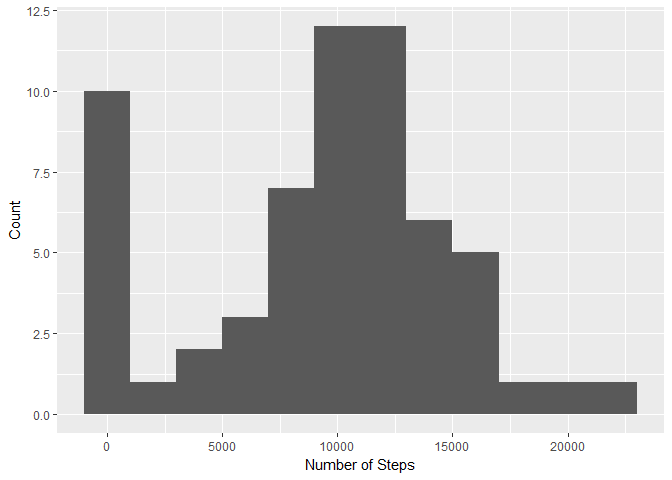
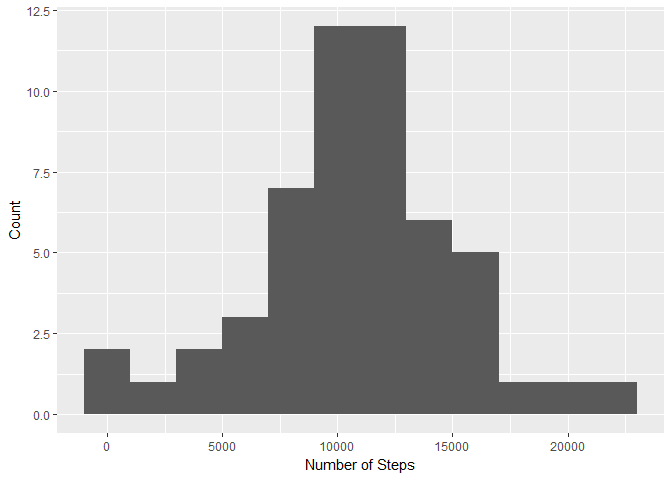
Fix bug with in summation with NA values

Changed region(s): [[0.125, 0.1875, 0.2188, 0.75]]

diff --git a/Reproducible Research/Assignment 1/PA1_template.html b/Reproducible Research/Assignment 1/PA1_template.html
@@ -150,7 +150,7 @@ summary(df)</code></pre>
 <p>As we can see, there is a large number of NA values that we will take care of in a later step. Next, we will introduce two helper functions we will use throughout this document.</p>
 <pre class="r"><code>sum_steps &lt;- function(input_df)
 {
-  output_df &lt;- input_df[, c(1, 2)] %&gt;% group_by(date) %&gt;% summarise_all(funs(sum), na.rm = TRUE)
+  output_df &lt;- input_df[, c(1, 2)] %&gt;% group_by(date) %&gt;% summarise_all(funs(sum))
   colnames(output_df) = c(&quot;date&quot;, &quot;number_of_steps&quot;)
   output_df
 }
@@ -166,16 +166,17 @@ day_classification &lt;- function(date)
     &quot;weekday&quot;
   }
 }</code></pre>
-<p>These functions will help calculate the total number of steps per day and classify each day as either a weekday or a weekend day. Next, we will group the steps by date and sum them up. A histogram shows the data.</p>
+<p>These functions will help calculate the total number of steps per day and classify each day as either a weekday or a weekend day. It is important to note that the sum will only be non-NA for days with complete records. Otherwise the data would be biased because them sum would be too little. Next, we will group the steps by date and sum them up. A histogram shows the data.</p>
 <pre class="r"><code>total_steps_per_day &lt;- sum_steps(df)
 colnames(total_steps_per_day) = c(&quot;date&quot;, &quot;number_of_steps&quot;)
 g &lt;- ggplot(total_steps_per_day, aes(total_steps_per_day$number_of_steps))
 g + geom_histogram(binwidth = 2000) + labs(x = &quot;Number of Steps&quot;, y = &quot;Count&quot;)</code></pre>
[1 lines of base64/hex data omitted]
+<pre><code>## Warning: Removed 8 rows containing non-finite values (stat_bin).</code></pre>
[1 lines of base64/hex data omitted]
 <pre class="r"><code>mean(total_steps_per_day$number_of_steps, na.rm = TRUE)</code></pre>
-<pre><code>## [1] 9354.23</code></pre>
+<pre><code>## [1] 10766.19</code></pre>
 <pre class="r"><code>median(total_steps_per_day$number_of_steps, na.rm = TRUE)</code></pre>
-<pre><code>## [1] 10395</code></pre>
+<pre><code>## [1] 10765</code></pre>
 </div>
 <div id="the-average-daily-activity-pattern" class="section level2">
 <h2>The Average Daily Activity Pattern</h2>
@@ -220,7 +221,7 @@ g + geom_histogram(binwidth = 2000) + labs(x = &quot;Number of Steps&quot;, y = 
[1 lines of base64/hex data omitted]
 <pre class="r"><code>g &lt;- ggplot(average_per_interval, aes(average_per_interval$Interval, average_per_interval$Mean_Steps))
 g + geom_line() + labs(x = &quot;Interval&quot;, y = &quot;Average Number of Steps&quot;)</code></pre>
[2 lines of base64/hex data omitted]
 </div>
 <div id="differences-between-activity-patterns-on-weekdays-and-weekends" class="section level2">
 <h2>Differences Between Activity Patterns on Weekdays and Weekends</h2>

diff --git a/Reproducible Research/Assignment 1/PA1_template.md b/Reproducible Research/Assignment 1/PA1_template.md
@@ -46,7 +46,7 @@ As we can see, there is a large number of NA values that we will take care of in
 ```r
 sum_steps <- function(input_df)
 {
-  output_df <- input_df[, c(1, 2)] %>% group_by(date) %>% summarise_all(funs(sum), na.rm = TRUE)
+  output_df <- input_df[, c(1, 2)] %>% group_by(date) %>% summarise_all(funs(sum))
   colnames(output_df) = c("date", "number_of_steps")
   output_df
 }
@@ -63,7 +63,7 @@ day_classification <- function(date)
   }
 }
 ```
-These functions will help calculate the total number of steps per day and classify each day as either a weekday or a weekend day.
+These functions will help calculate the total number of steps per day and classify each day as either a weekday or a weekend day. It is important to note that the sum will only be non-NA for days with complete records. Otherwise the data would be biased because them sum would be too little.
 Next, we will group the steps by date and sum them up. A histogram shows the data.
 
 ```r
@@ -71,6 +71,10 @@ total_steps_per_day <- sum_steps(df)
 colnames(total_steps_per_day) = c("date", "number_of_steps")
 g <- ggplot(total_steps_per_day, aes(total_steps_per_day$number_of_steps))
 g + geom_histogram(binwidth = 2000) + labs(x = "Number of Steps", y = "Count")
+```
+
+```
+## Warning: Removed 8 rows containing non-finite values (stat_bin).
 ```
 
 ![](PA1_template_files/figure-html/3-1.png)<!-- -->
@@ -81,7 +85,7 @@ mean(total_steps_per_day$number_of_steps, na.rm = TRUE)
 ```
 
 ```
-## [1] 9354.23
+## [1] 10766.19
 ```
 
 ```r
@@ -89,7 +93,7 @@ median(total_steps_per_day$number_of_steps, na.rm = TRUE)
 ```
 
 ```
-## [1] 10395
+## [1] 10765
 ```
 
 ## The Average Daily Activity Pattern
@@ -174,7 +178,7 @@ g + geom_line() + labs(x = "Interval", y = "Average Number of Steps")
 ```
 
 ![](PA1_template_files/figure-html/9-2.png)<!-- -->
-As we can observe, the mean value hasincreased significantly while the new median is comparable to the old value. In this case, the difference between median and mean has shrunken, removing a bit of the skew of the data. 
+As we can observe, neither mean nor median have changed significantly. 
 
 ## Differences Between Activity Patterns on Weekdays and Weekends
 We conclude with a final data manipulation to visualize differences in the activity pattern between weekends and weekdays. First, we introduce a factor variable to indicate whether a given record represents a weekday or is in the weekend. Further, we implement group the data by this factor and interval and calculate the arithmetic mean.
